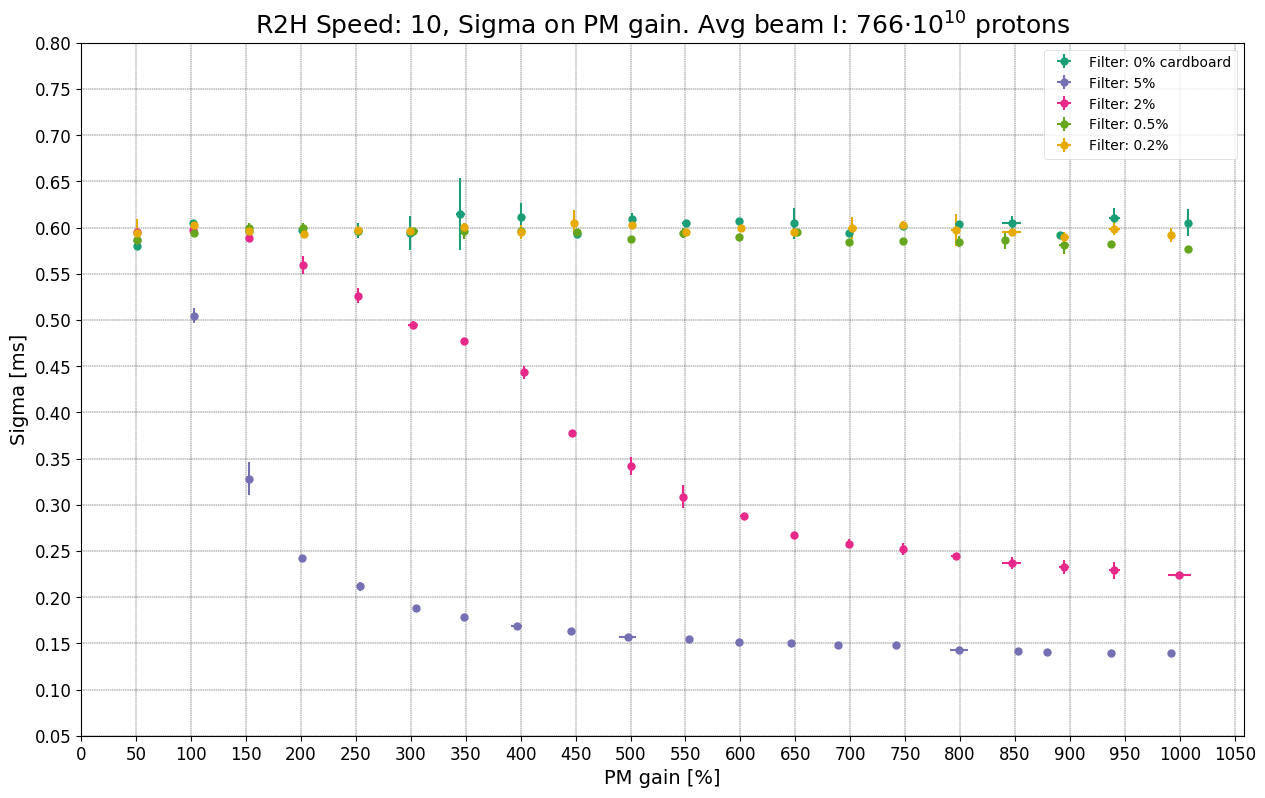
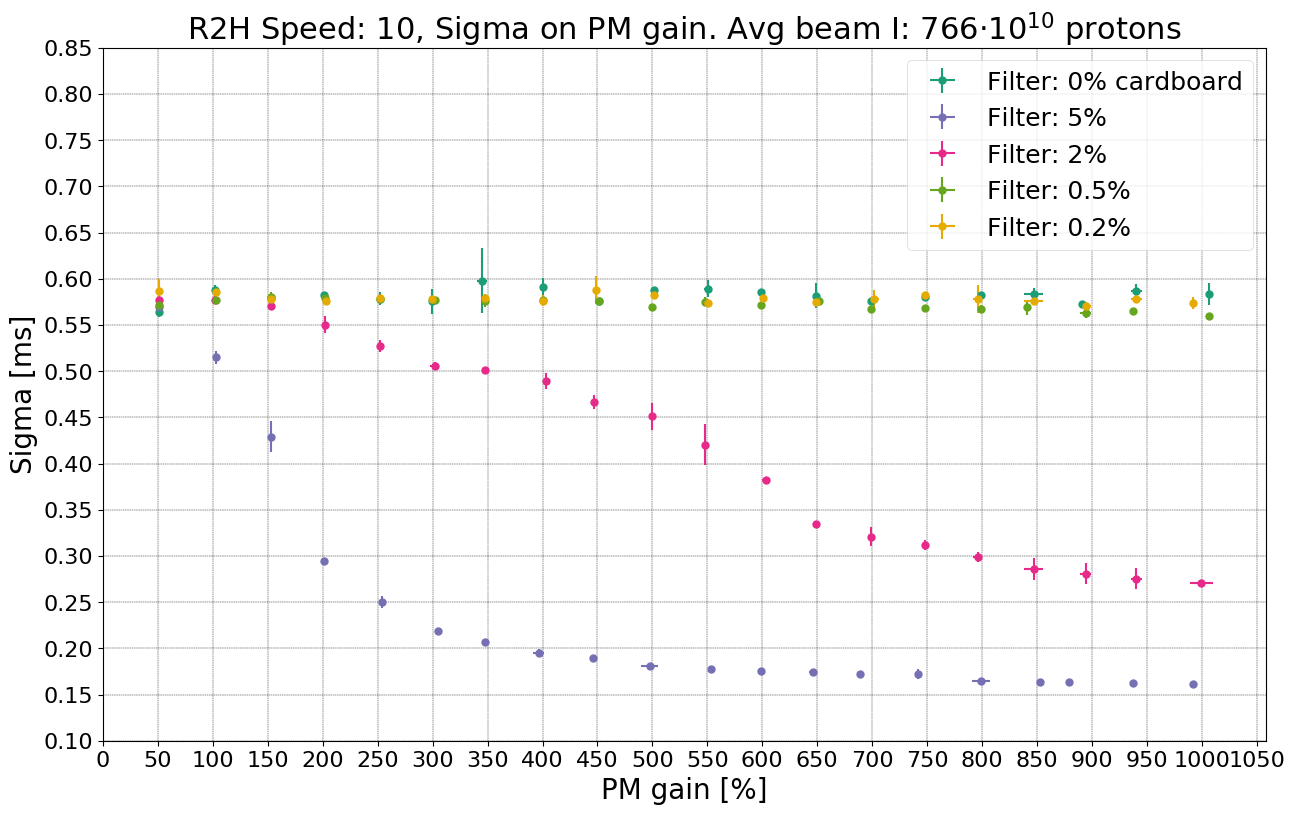
Working on project report results.

diff --git a/Parameter_values.html b/Parameter_values.html
@@ -67,5 +67,68 @@
 </table></body></html>
 
 
+<h3>NEW RESULTS</h3>
+
+ <html><head><style>table, th, td {border: 1px solid black;border-collapse: collapse;}th, td {padding: 5px;text-align: center;}</style></head><body><table width=700><tr><th colspan='4'>R2 H, Speed: 10, Avg beam I: 235 &middot 10<sup>10</sup> protons</th><tr><th> Filter </th><th> k </th><th> e </th><th> PM gain range </th></tr>	
+ <tr><th>0% cardboard</th><td>0.0&plusmn0.0</td><td>0.0&plusmn0.0</td><td>[0, 1025]</td></tr>
+ <tr><th>5%</th><td>8.01e-06&plusmn1e-07</td><td>-0.00257&plusmn0.00116</td><td>[25, 225]</td></tr>
+ <tr><th>2%</th><td>7.62e-06&plusmn1.1e-07</td><td>0.00059&plusmn0.00077</td><td>[25, 475]</td></tr>
+ <tr><th>0.5%</th><td>4.5e-06&plusmn1.4e-07</td><td>0.0057&plusmn0.00105</td><td>[225, 1025]</td></tr>
+ <tr><th>0.2%</th><td>4.31e-06&plusmn5.5e-07</td><td>0.01489&plusmn0.002</td><td>[475, 1025]</td></tr>
+</table></body></html>
+
+<p></p>
+
+ <html><head><style>table, th, td {border: 1px solid black;border-collapse: collapse;}th, td {padding: 5px;text-align: center;}</style></head><body><table width=700><tr><th colspan='4'>R2 H, Speed: 15, Avg beam I: 238 &middot 10<sup>10</sup> protons</th><tr><th> Filter </th><th> k </th><th> e </th><th> PM gain range </th></tr>	
+ <tr><th>0% cardboard</th><td>0.0&plusmn0.0</td><td>0.0&plusmn0.0</td><td>[0, 1025]</td></tr>
+ <tr><th>5%</th><td>7.85e-06&plusmn6e-08</td><td>-0.00143&plusmn0.00059</td><td>[25, 275]</td></tr>
+ <tr><th>2%</th><td>7.67e-06&plusmn4e-08</td><td>0.00047&plusmn0.00014</td><td>[25, 575]</td></tr>
+ <tr><th>0.5%</th><td>5.24e-06&plusmn8e-08</td><td>0.0013&plusmn0.00029</td><td>[225, 1025]</td></tr>
+ <tr><th>0.2%</th><td>5.06e-06&plusmn2.1e-07</td><td>0.00017&plusmn0.0004</td><td>[275, 1025]</td></tr>
+</table></body></html>
+
+<p></p>
+
+ <html><head><style>table, th, td {border: 1px solid black;border-collapse: collapse;}th, td {padding: 5px;text-align: center;}</style></head><body><table width=700><tr><th colspan='4'>R2 H, Speed: 10, Avg beam I: 766 &middot 10<sup>10</sup> protons</th><tr><th> Filter </th><th> k </th><th> e </th><th> PM gain range </th></tr>	
+ <tr><th>0% cardboard</th><td>0.0&plusmn0.0</td><td>0.0&plusmn0.0</td><td>[0, 1025]</td></tr>
+ <tr><th>5%</th><td>nan&plusmnnan</td><td>nan&plusmnnan</td><td>[25, 75]</td></tr>
+ <tr><th>2%</th><td>9.23e-06&plusmn1.2e-07</td><td>-0.00133&plusmn0.00278</td><td>[25, 175]</td></tr>
+ <tr><th>0.5%</th><td>5.77e-06&plusmn9e-08</td><td>0.00495&plusmn0.00192</td><td>[125, 625]</td></tr>
+ <tr><th>0.2%</th><td>4.9e-06&plusmn1.8e-07</td><td>0.00449&plusmn0.00151</td><td>[175, 975]</td></tr>
+</table></body></html>
+
+<p></p>
+
+ <html><head><style>table, th, td {border: 1px solid black;border-collapse: collapse;}th, td {padding: 5px;text-align: center;}</style></head><body><table width=700><tr><th colspan='4'>R2 H, Speed: 15, Avg beam I: 738 &middot 10<sup>10</sup> protons</th><tr><th> Filter </th><th> k </th><th> e </th><th> PM gain range </th></tr>	
+ <tr><th>0% cardboard</th><td>0.0&plusmn0.0</td><td>0.0&plusmn0.0</td><td>[0, 1025]</td></tr>
+ <tr><th>5%</th><td>nan&plusmnnan</td><td>nan&plusmnnan</td><td>[25, 75]</td></tr>
+ <tr><th>2%</th><td>9.01e-06&plusmn5e-08</td><td>-0.00403&plusmn0.00068</td><td>[25, 225]</td></tr>
+ <tr><th>0.5%</th><td>4.88e-06&plusmn1.6e-07</td><td>0.01054&plusmn0.00256</td><td>[275, 1025]</td></tr>
+ <tr><th>0.2%</th><td>4.2e-06&plusmn1.8e-07</td><td>0.00525&plusmn0.0012</td><td>[325, 1025]</td></tr>
+</table></body></html>
+
+<p></p>
+
+ <html><head><style>table, th, td {border: 1px solid black;border-collapse: collapse;}th, td {padding: 5px;text-align: center;}</style></head><body><table width=700><tr><th colspan='4'>R2 H, Speed: 10, Avg beam I: 78 &middot 10<sup>10</sup> protons</th><tr><th> Filter </th><th> k </th><th> e </th><th> PM gain range </th></tr>	
+ <tr><th>0% cardboard</th><td>0.0&plusmn0.0</td><td>0.0&plusmn0.0</td><td>[0, 1025]</td></tr>
+ <tr><th>5%</th><td>7.08e-06&plusmn2e-07</td><td>0.00686&plusmn0.00382</td><td>[375, 575]</td></tr>
+ <tr><th>2%</th><td>7.29e-06&plusmn6e-08</td><td>0.00069&plusmn0.00052</td><td>[175, 1025]</td></tr>
+ <tr><th>0.5%</th><td>5.6e-06&plusmn1.4e-07</td><td>-0.00077&plusmn0.00038</td><td>[375, 1025]</td></tr>
+ <tr><th>0.2%</th><td>7.03e-06&plusmn7e-07</td><td>-0.00233&plusmn0.00085</td><td>[475, 1025]</td></tr>
+</table></body></html>
+
+<p></p>
+
+ <html><head><style>table, th, td {border: 1px solid black;border-collapse: collapse;}th, td {padding: 5px;text-align: center;}</style></head><body><table width=700><tr><th colspan='4'>R2 H, Speed: 15, Avg beam I: 80 &middot 10<sup>10</sup> protons</th><tr><th> Filter </th><th> k </th><th> e </th><th> PM gain range </th></tr>	
+ <tr><th>0% cardboard</th><td>0.0&plusmn0.0</td><td>0.0&plusmn0.0</td><td>[0, 1025]</td></tr>
+ <tr><th>5%</th><td>6.68e-06&plusmn3e-07</td><td>0.00451&plusmn0.00398</td><td>[375, 675]</td></tr>
+ <tr><th>2%</th><td>6.69e-06&plusmn9e-08</td><td>0.00247&plusmn0.00062</td><td>[275, 1025]</td></tr>
+ <tr><th>0.5%</th><td>4.6e-06&plusmn8e-08</td><td>-0.00097&plusmn0.00016</td><td>[475, 1025]</td></tr>
+ <tr><th>0.2%</th><td>4.92e-06&plusmn8.1e-07</td><td>-0.00164&plusmn0.0007</td><td>[575, 1025]</td></tr>
+</table></body></html>
+
+
+
+
 
 

diff --git a/analyse_wirescanner.py b/analyse_wirescanner.py
@@ -88,8 +88,8 @@ def plot_profile(infile):
     data_z = []
 
     for x,y,z in zip(data_x_old,data_y_old,data_z_old):
-        if x > -30 and x < 0:
-        # if x > -35 and x < 5:
+        # if x > -25 and x < 0:
+        if x > -35 and x < 5:
             data_x.append(x)
             data_y.append(y)
             data_z.append(z)
@@ -135,14 +135,16 @@ filter_list1 = [1, 20, 5, 2, 0.5, 0.2, 100, 1]
 # ---- BCMS25
 # run = [4,5,6,7,8,9,10,11,12,13,14,15,16]
 # run = [7,8,9,10,11,12,13,14,15,16]
+# run = [9,10,11,12]
 # ---- ISOHRS
-run = [21,22,23] # remove 23 for ISOHRS speed 10
+# run = [21,22] # remove 23 for ISOHRS speed 10
 # ---- LHC25
-# run = [31,32,33]
+# run = [31,33]
 # -------------- speed 15 runs --------------
 # ---- BCMS25
 # run = [2,3,4,5,6,7,8,9,10,11,12,13,14,15,16]
 # run = [8,9,10,11,12,13,14,15,16]
+run = [9,13,16]
 # ---- ISOHRS
 # run = [21,22,23]
 # ---- LHC25
@@ -154,7 +156,7 @@ filter = [0,2,3,4,5]
 # filter = [1,6]
 ring = "R2"
 plane = "H"
-speed = 10
+speed = 15
 measured_data_dict = collections.defaultdict(list)
 mean_bct_sum = 0
 mean_bct_length = 0
@@ -348,23 +350,26 @@ for filt in filter:
 	measured_data_dict[(str(filt),"bcts_final")] = bcts_final
 	measured_data_dict[(str(filt),"bcts_final_errors")] = bcts_final_errors
 
-# print(" "
-# 	"<html><head><style>"
-# 		"table, th, td {"
-# 		    "border: 1px solid black;"
-# 		    "border-collapse: collapse;"
-# 		"}"
-# 		"th, td {"
-# 		    "padding: 5px;"
-# 		    "text-align: center;"
-# 		"}"
-# 		"</style></head><body>"
-# 		'<table width=700>'
-# 		  "<tr>"
-# 		  	"<th></th>"
-# 		    "<th colspan='2'>" + str(speed) + "</th>"
-# 		    "<th> PM gain range </th>"
-# 	  "</tr>	")
+print(" "
+	"<html><head><style>"
+		"table, th, td {"
+		    "border: 1px solid black;"
+		    "border-collapse: collapse;"
+		"}"
+		"th, td {"
+		    "padding: 5px;"
+		    "text-align: center;"
+		"}"
+		"</style></head><body>"
+		'<table width=700>'
+		  "<tr>"
+		    "<th colspan='4'>" + ring + " " + plane + ", Speed: " + str(speed) + ", Avg beam I: " + str(int(round(mean_bct))) + " &middot 10<sup>10</sup> protons" "</th>"
+		  "<tr>"
+		  	"<th> Filter </th>"
+		    "<th> k </th>"
+		    "<th> e </th>"
+		    "<th> PM gain range </th>"
+	  "</tr>	")
 
 	
 
@@ -373,29 +378,29 @@ for filt in filter:
 	filter_range = [0,1025]
 
 	# ------------ BCMS25 ------------ 
-	# if speed == 10:
-	# 	if filt == 1:
-	# 		filter_range = [25,125]
-	# 	if filt == 2:
-	# 		filter_range = [375,575]
-	# 	if filt == 3:
-	# 		filter_range = [175,1025]
-	# 	if filt == 4:
-	# 		filter_range = [375,1025]
-	# 	if filt == 5:
-	# 		filter_range = [475,1025]			
+	if speed == 10:
+		if filt == 1:
+			filter_range = [25,125]
+		if filt == 2:
+			filter_range = [375,575]
+		if filt == 3:
+			filter_range = [175,1025]
+		if filt == 4:
+			filter_range = [375,1025]
+		if filt == 5:
+			filter_range = [475,1025]			
 
-	# if speed == 15:
-	# 	if filt == 1:
-	# 		filter_range = [25,175]
-	# 	if filt == 2:
-	# 		filter_range = [375,675]
-	# 	if filt == 3:
-	# 		filter_range = [275,1025]
-	# 	if filt == 4:
-	# 		filter_range = [475,1025]
-	# 	if filt == 5:
-	# 		filter_range = [575,1025]			
+	if speed == 15:
+		if filt == 1:
+			filter_range = [25,175]
+		if filt == 2:
+			filter_range = [375,675]
+		if filt == 3:
+			filter_range = [275,1025]
+		if filt == 4:
+			filter_range = [475,1025]
+		if filt == 5:
+			filter_range = [575,1025]			
 
 	# # ------------ LHC25 ------------ 
 	# if speed == 10:
@@ -425,9 +430,9 @@ for filt in filter:
 	# 	if filt == 3:
 	# 		filter_range = [25,175]
 	# 	if filt == 4:
-	# 		filter_range = [125,675]
+	# 		filter_range = [125,625]
 	# 	if filt == 5:
-	# 		filter_range = [175,1025]			
+	# 		filter_range = [175,975]			
 
 	# if speed == 15:
 	# 	if filt == 2:
@@ -489,15 +494,15 @@ for filt in filter:
 	# plt.fill_between(np.asarray(measured_data_dict[(str(filt),"pms_final")]), np.asarray(measured_data_dict[(str(filt),"sigmas_final")])-np.asarray(measured_data_dict[(str(filt),"sigmas_final_errors")]), np.asarray(measured_data_dict[(str(filt),"sigmas_final")])+np.asarray(measured_data_dict[(str(filt),"sigmas_final_errors")]),facecolor=color_list[filt],alpha=0.5)
 	fig = plt.gcf()
 	fig.set_size_inches(15, 9)
-	plt.title(ring + plane + " Speed: " + str(speed) + ", Sigma on PM gain." + " Avg beam I: " + str(int(round(mean_bct))) + "$ \cdot 10^{10}$ protons", fontsize=18)
-	plt.xlabel('PM gain [%]', fontsize=14)
-	plt.xticks(np.arange(0, 1051, step=50), fontsize=12)
+	plt.title(ring + plane + " Speed: " + str(speed) + ", Sigma on PM gain." + " Avg beam I: " + str(int(round(mean_bct))) + "$ \cdot 10^{10}$ protons", fontsize=22)
+	plt.xlabel('PM gain [%]', fontsize=20)
+	plt.xticks(np.arange(0, 1051, step=50), fontsize=16)
 	# plt.yticks(np.arange(1.5, 3, step=0.5)) # For sellected data
-	plt.yticks(np.arange(0.05, 0.85, step=0.05), fontsize=12) # For all data   # ----------------For time dependent measurement----------------
+	plt.yticks(np.arange(0.1, 0.90, step=0.05), fontsize=16) # For all data   # ----------------For time dependent measurement----------------
 	# plt.yticks(np.arange(0, 4, step=0.5), fontsize=12) # For all data
 	# plt.ylabel(r'Sigma [mm]', fontsize=14)
-	plt.ylabel(r'Sigma [ms]', fontsize=14)  # ----------------For time dependent measurement----------------
-	plt.legend(loc='best', prop={'size': 10}).get_frame().set_linewidth(0.5)
+	plt.ylabel(r'Sigma [ms]', fontsize=20)  # ----------------For time dependent measurement----------------
+	plt.legend(loc='best', prop={'size': 18}).get_frame().set_linewidth(0.5)
 	plt.grid(b=None, which='major', axis='both', linewidth=0.3, linestyle="--", color="black") 
 	# plt.savefig("sigma_on_pm_" + ring + plane + "_filter" + str(filt) + "_speed" + str(speed) + ".png", bbox_inches='tight')
 	# plt.clf()
@@ -520,21 +525,21 @@ for filt in filter:
 	# ----------------------------- Substracting cardboard -----------------------------
 	plt.errorbar(np.asarray(measured_data_dict[(str(filt),"pms_final")])[np.logical_and(filter_range[0]<np.asarray(measured_data_dict[(str(filt),"pms_final")]), np.asarray(measured_data_dict[(str(filt),"pms_final")])<filter_range[1])], (np.asarray(measured_data_dict[(str(filt),"sigmas_areas_final")])-np.asarray(measured_data_dict[(str(0),"sigmas_areas_final")]))[np.logical_and(filter_range[0]<np.asarray(measured_data_dict[(str(filt),"pms_final")]), np.asarray(measured_data_dict[(str(filt),"pms_final")])<filter_range[1])], xerr = np.asarray(measured_data_dict[(str(filt),"pms_final_errors")])[np.logical_and(filter_range[0]<np.asarray(measured_data_dict[(str(filt),"pms_final")]), np.asarray(measured_data_dict[(str(filt),"pms_final")])<filter_range[1])], yerr = np.sqrt(np.asarray(measured_data_dict[(str(filt),"sigmas_areas_final_errors")])**2 + np.asarray(measured_data_dict[(str(0),"sigmas_areas_final_errors")])**2)[np.logical_and(filter_range[0]<np.asarray(measured_data_dict[(str(filt),"pms_final")]), np.asarray(measured_data_dict[(str(filt),"pms_final")])<filter_range[1])], color=color_list(filt), fmt='o', markersize=5, label='Filter: ' + filter_list[filt])
 	# plt.errorbar(measured_data_dict[(str(filt),"pms_final")], measured_data_dict[(str(filt),"sigmas_areas_final")], xerr = measured_data_dict[(str(filt),"pms_final_errors")], yerr = measured_data_dict[(str(filt),"sigmas_areas_final_errors")], color=color_list(filt), fmt='o', markersize=5, label='Filter: ' + filter_list[filt])
-	plt.plot(np.asarray(measured_data_dict[(str(filt),"pms_final")])[np.logical_and(filter_range[0]<np.asarray(measured_data_dict[(str(filt),"pms_final")]), np.asarray(measured_data_dict[(str(filt),"pms_final")])<filter_range[1])], empirical(np.asarray(measured_data_dict[(str(filt),"pms_final")])[np.logical_and(filter_range[0]<np.asarray(measured_data_dict[(str(filt),"pms_final")]), np.asarray(measured_data_dict[(str(filt),"pms_final")])<filter_range[1])], *popt1, filter_list1[filt], speed, mean_bct), label=("k: " + str(round(popt1[0],8)) + "$\pm$" + str(round(perr1[0],8)) + "\n" + "e: " + str(round(popt1[1],5)) + "$\pm$" + str(round(perr1[1],5)) + "\n" + "$\chi^2$: " + str(round(chi_test,3))), lw=0.8, color=color_list(filt))
+	# plt.plot(np.asarray(measured_data_dict[(str(filt),"pms_final")])[np.logical_and(filter_range[0]<np.asarray(measured_data_dict[(str(filt),"pms_final")]), np.asarray(measured_data_dict[(str(filt),"pms_final")])<filter_range[1])], empirical(np.asarray(measured_data_dict[(str(filt),"pms_final")])[np.logical_and(filter_range[0]<np.asarray(measured_data_dict[(str(filt),"pms_final")]), np.asarray(measured_data_dict[(str(filt),"pms_final")])<filter_range[1])], *popt1, filter_list1[filt], speed, mean_bct), label=("k: " + str(round(popt1[0],8)) + "$\pm$" + str(round(perr1[0],8)) + "\n" + "e: " + str(round(popt1[1],5)) + "$\pm$" + str(round(perr1[1],5)) + "\n" + "$\chi^2$: " + str(round(chi_test,3))), lw=0.8, color=color_list(filt))
 	# Without label ----------------
-	# plt.plot(np.asarray(measured_data_dict[(str(filt),"pms_final")])[np.logical_and(filter_range[0]<np.asarray(measured_data_dict[(str(filt),"pms_final")]), np.asarray(measured_data_dict[(str(filt),"pms_final")])<filter_range[1])], empirical(np.asarray(measured_data_dict[(str(filt),"pms_final")])[np.logical_and(filter_range[0]<np.asarray(measured_data_dict[(str(filt),"pms_final")]), np.asarray(measured_data_dict[(str(filt),"pms_final")])<filter_range[1])], *popt1, filter_list1[filt], speed, mean_bct), label= None, lw=0.8, color=color_list(filt))
+	plt.plot(np.asarray(measured_data_dict[(str(filt),"pms_final")])[np.logical_and(filter_range[0]<np.asarray(measured_data_dict[(str(filt),"pms_final")]), np.asarray(measured_data_dict[(str(filt),"pms_final")])<filter_range[1])], empirical(np.asarray(measured_data_dict[(str(filt),"pms_final")])[np.logical_and(filter_range[0]<np.asarray(measured_data_dict[(str(filt),"pms_final")]), np.asarray(measured_data_dict[(str(filt),"pms_final")])<filter_range[1])], *popt1, filter_list1[filt], speed, mean_bct), label= None, lw=0.8, color=color_list(filt))
 	# plt.fill_between(np.asarray(measured_data_dict[(str(filt),"pms_final")]), np.asarray(measured_data_dict[(str(filt),"sigmas_final")])-np.asarray(measured_data_dict[(str(filt),"sigmas_final_errors")]), np.asarray(measured_data_dict[(str(filt),"sigmas_final")])+np.asarray(measured_data_dict[(str(filt),"sigmas_final_errors")]),facecolor=color_list[filt],alpha=0.5)
 	fig = plt.gcf()
 	fig.set_size_inches(15, 9)
-	plt.title(ring + plane + " Speed: " + str(speed) + ", Sigma $\cdot$ Amplitude on PM gain." + " Avg beam I: " + str(int(round(mean_bct))) + "$ \cdot 10^{10}$ protons", fontsize=18)
-	plt.xlabel('PM gain [%]', fontsize=14)
-	plt.xticks(np.arange(0, 1051, step=50), fontsize=12)
+	plt.title(ring + plane + " Speed: " + str(speed) + ", Sigma $\cdot$ Amplitude on PM gain." + " Avg beam I: " + str(int(round(mean_bct))) + "$ \cdot 10^{10}$ protons", fontsize=22)
+	plt.xlabel('PM gain [%]', fontsize=20)
+	plt.xticks(np.arange(0, 1051, step=50), fontsize=16)
 	# plt.yticks(np.arange(-0.25, 4, step=0.25), fontsize=12) # For all data 
-	plt.yticks(np.arange(-0.025, 0.35, step=0.025), fontsize=12) # For all data   # ----------------For time dependent measurement----------------
+	plt.yticks(np.arange(-0.025, 0.3, step=0.025), fontsize=16) # For all data   # ----------------For time dependent measurement----------------
 	# plt.yticks(np.arange(-0.25, 1, step=0.25)) # For sellected data
 	# plt.ylabel(r'Sigma $\cdot$ Amplitude [mm * mA]', fontsize=14)
-	plt.ylabel(r'Sigma $\cdot$ Amplitude [ms * mA]', fontsize=14)  # ----------------For time dependent measurement----------------
-	plt.legend(loc='best', prop={'size': 10}).get_frame().set_linewidth(0.5)
+	plt.ylabel(r'Sigma $\cdot$ Amplitude [ms * mA]', fontsize=20)  # ----------------For time dependent measurement----------------
+	plt.legend(loc='best', prop={'size': 18}).get_frame().set_linewidth(0.5)
 	plt.grid(b=None, which='major', axis='both', linewidth=0.3, linestyle="--", color="black") 
 	# plt.savefig("sigma_times_area_on_pm_" + ring + plane + "_filter" + str(filt) + "_speed" + str(speed) + ".png", bbox_inches='tight')
 	# plt.clf()
@@ -566,16 +571,16 @@ for filt in filter:
 
 
 
-# 	print(" "
-# 	  "<tr>"
-# 	  	"<th>" + filter_list[filt] + "</th>"
-# 	    "<td>" + str(round(popt1[0],30)) + "&plusmn" + str(round(perr1[0],30)) + "</td>" #voltage
-# 	    # "<td>" + str(round(popt1[0],8)) + "&plusmn" + str(round(perr1[0],8)) + "</td>" #gain
-# 	    "<td>" + str(round(popt1[1],5)) + "&plusmn" + str(round(perr1[1],5)) + "</td>"
-# 	    "<td>" + str(filter_range) + "</td>"
-# 	  "</tr>")
+	print(" "
+	  "<tr>"
+	  	"<th>" + filter_list[filt] + "</th>"
+	    # "<td>" + str(round(popt1[0],30)) + "&plusmn" + str(round(perr1[0],30)) + "</td>" #voltage
+	    "<td>" + str(round(popt1[0],8)) + "&plusmn" + str(round(perr1[0],8)) + "</td>" #gain
+	    "<td>" + str(round(popt1[1],5)) + "&plusmn" + str(round(perr1[1],5)) + "</td>"
+	    "<td>" + str(filter_range) + "</td>"
+	  "</tr>")
 	  
-# print("</table></body></html>")
+print("</table></body></html>")
 
 # plt.figure(2)
 # # plt.savefig("all_sigma_times_area_on_pm_" + ring + plane + "_speed" + str(speed) + ".png", bbox_inches='tight')
@@ -588,9 +593,9 @@ for filt in filter:
 # # # # plt.figure(4)
 # # # # plt.savefig("all_sigma_times_area_on_intensity_" + ring + plane + "_speed" + str(speed) + ".png", bbox_inches='tight')
 
-# plt.figure(5)
-# # plt.savefig("all_sigma_times_area_on_pm_" + ring + plane + "_speed" + str(speed) + ".png", bbox_inches='tight')
-# plt.savefig("aFIT_all_ISOHRS_sigma(time)_times_area_on_pm_" + ring + plane + "_speed" + str(speed) + ".png", bbox_inches='tight')  # ----------------For time dependent measurement----------------
+plt.figure(5)
+# plt.savefig("all_sigma_times_area_on_pm_" + ring + plane + "_speed" + str(speed) + ".png", bbox_inches='tight')
+plt.savefig("aFIT_all_BCMS25_sigma(time)_times_area_on_pm_" + ring + plane + "_speed" + str(speed) + ".png", bbox_inches='tight')  # ----------------For time dependent measurement----------------
 
 # plt.figure(6)
 # # plt.savefig("all_sigma_times_area_on_pm_" + ring + plane + "_speed" + str(speed) + ".png", bbox_inches='tight')
